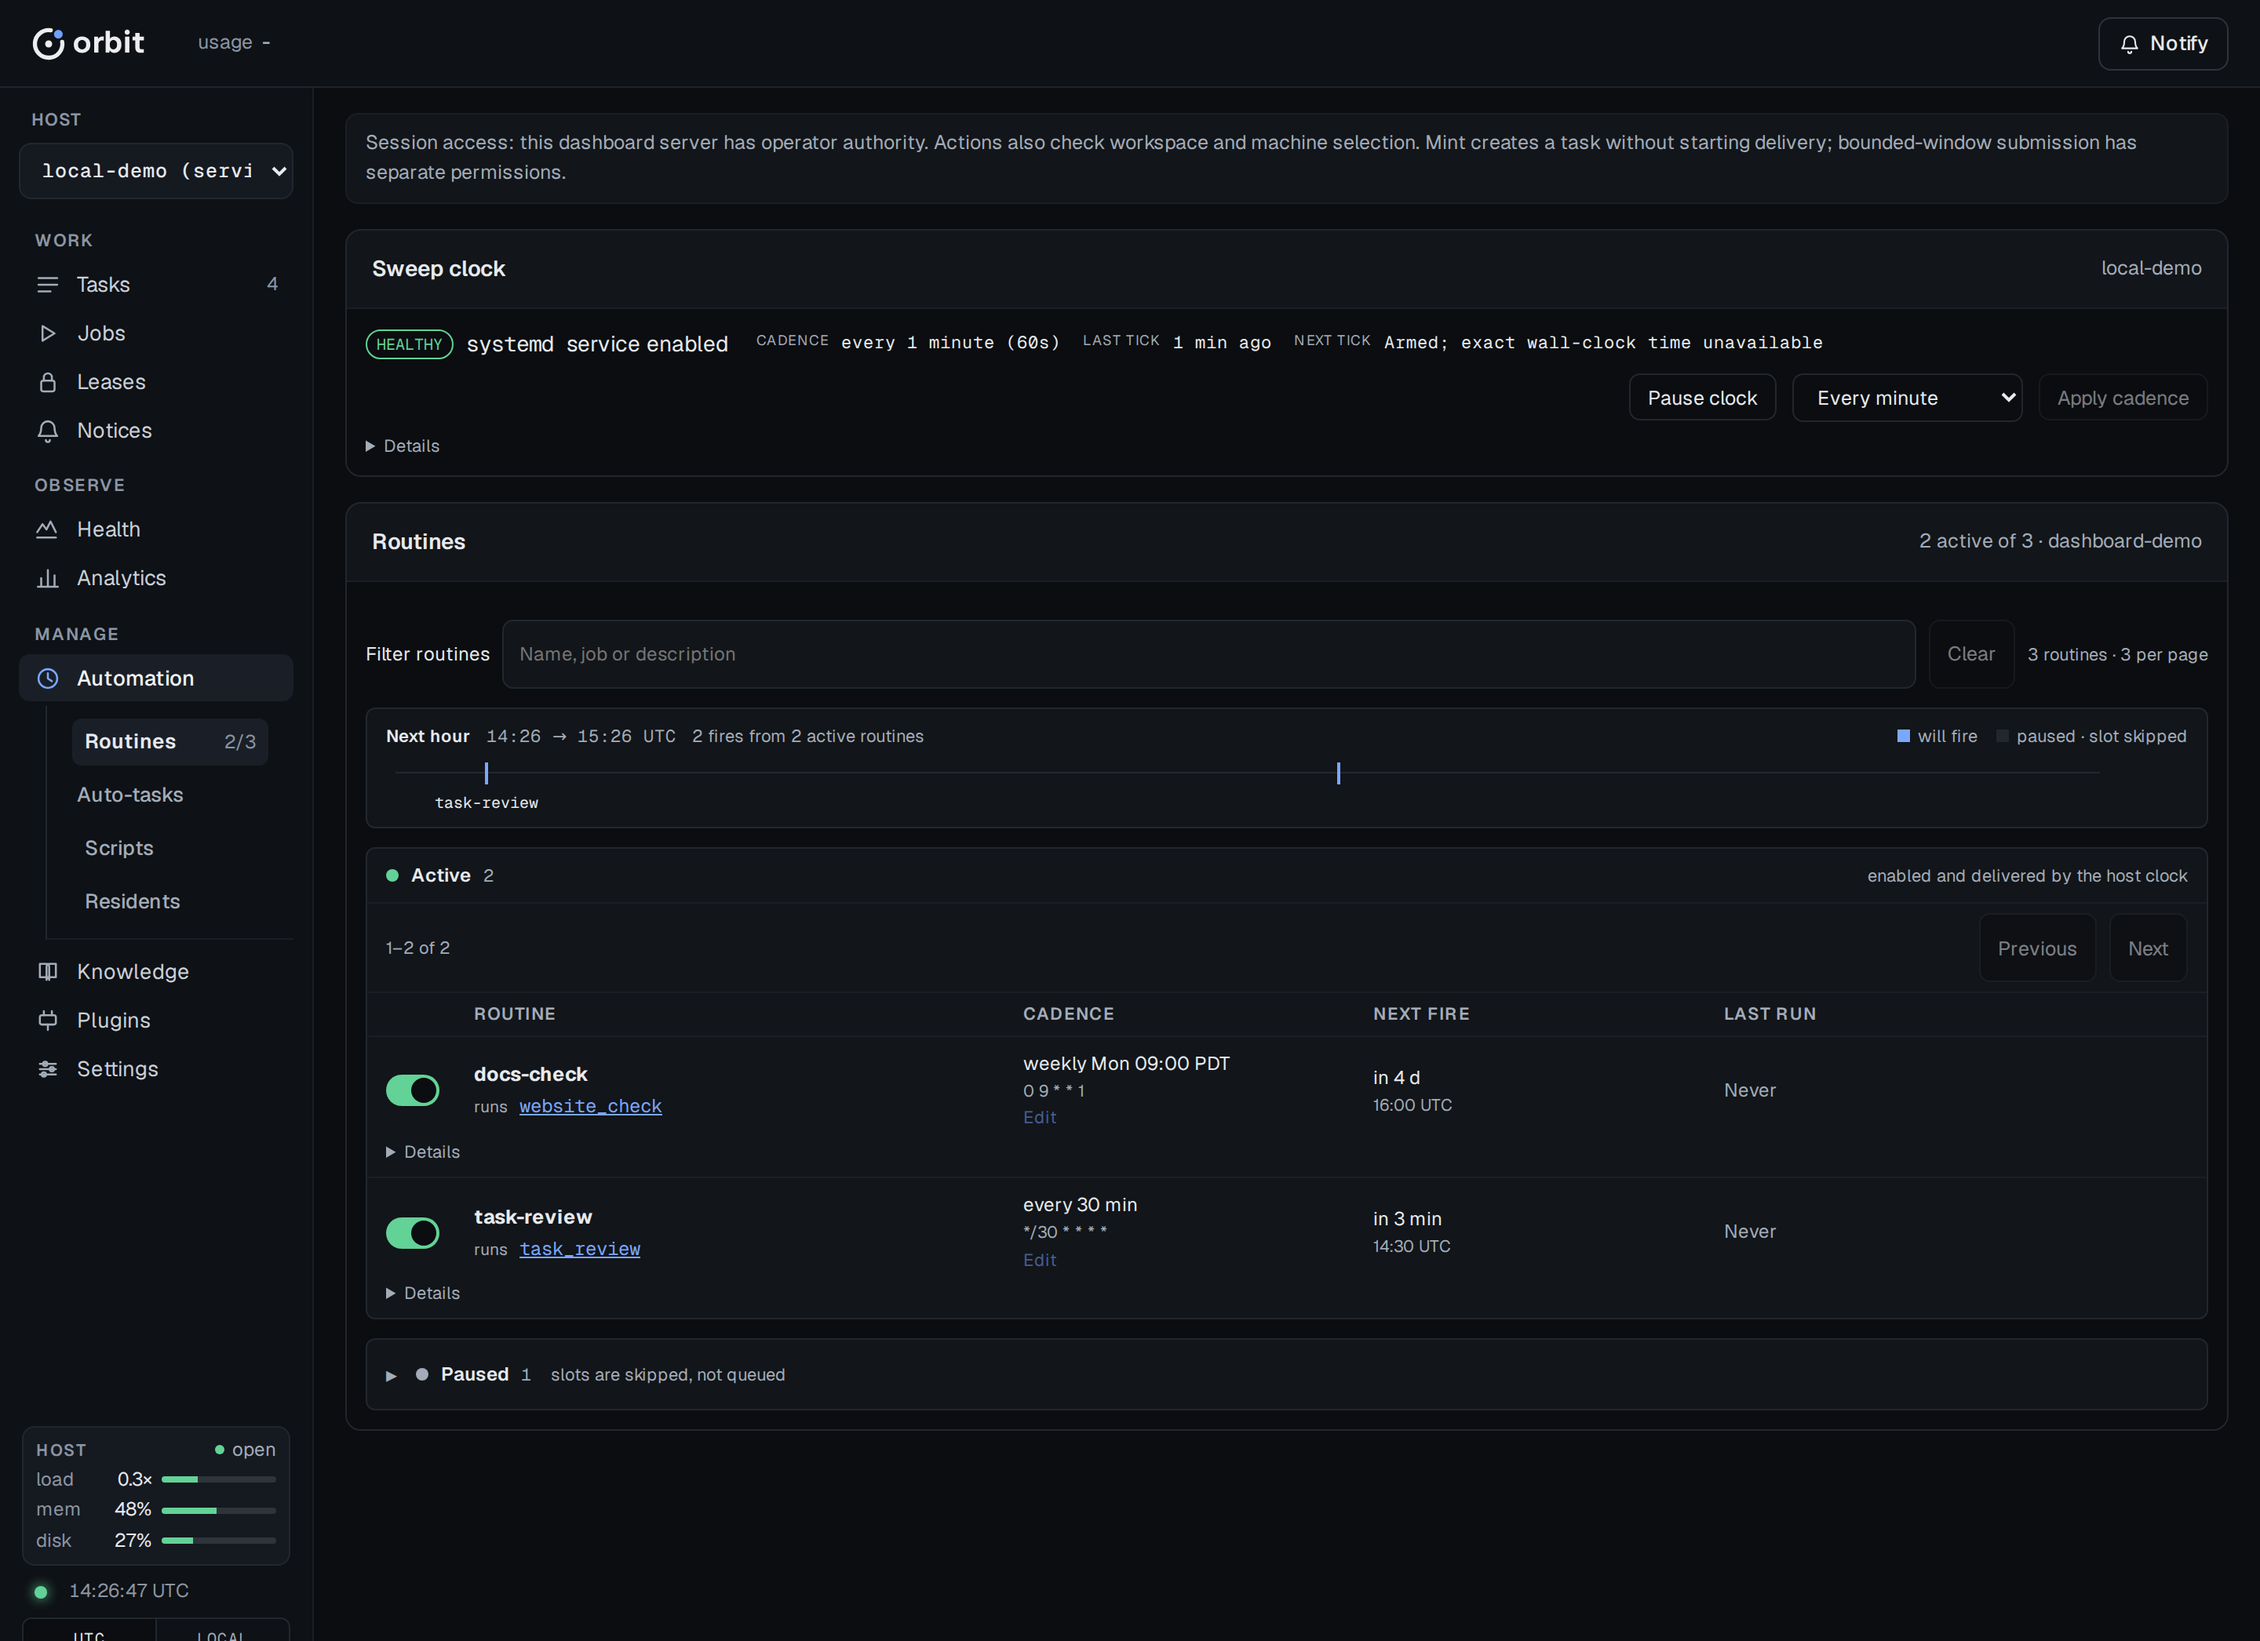
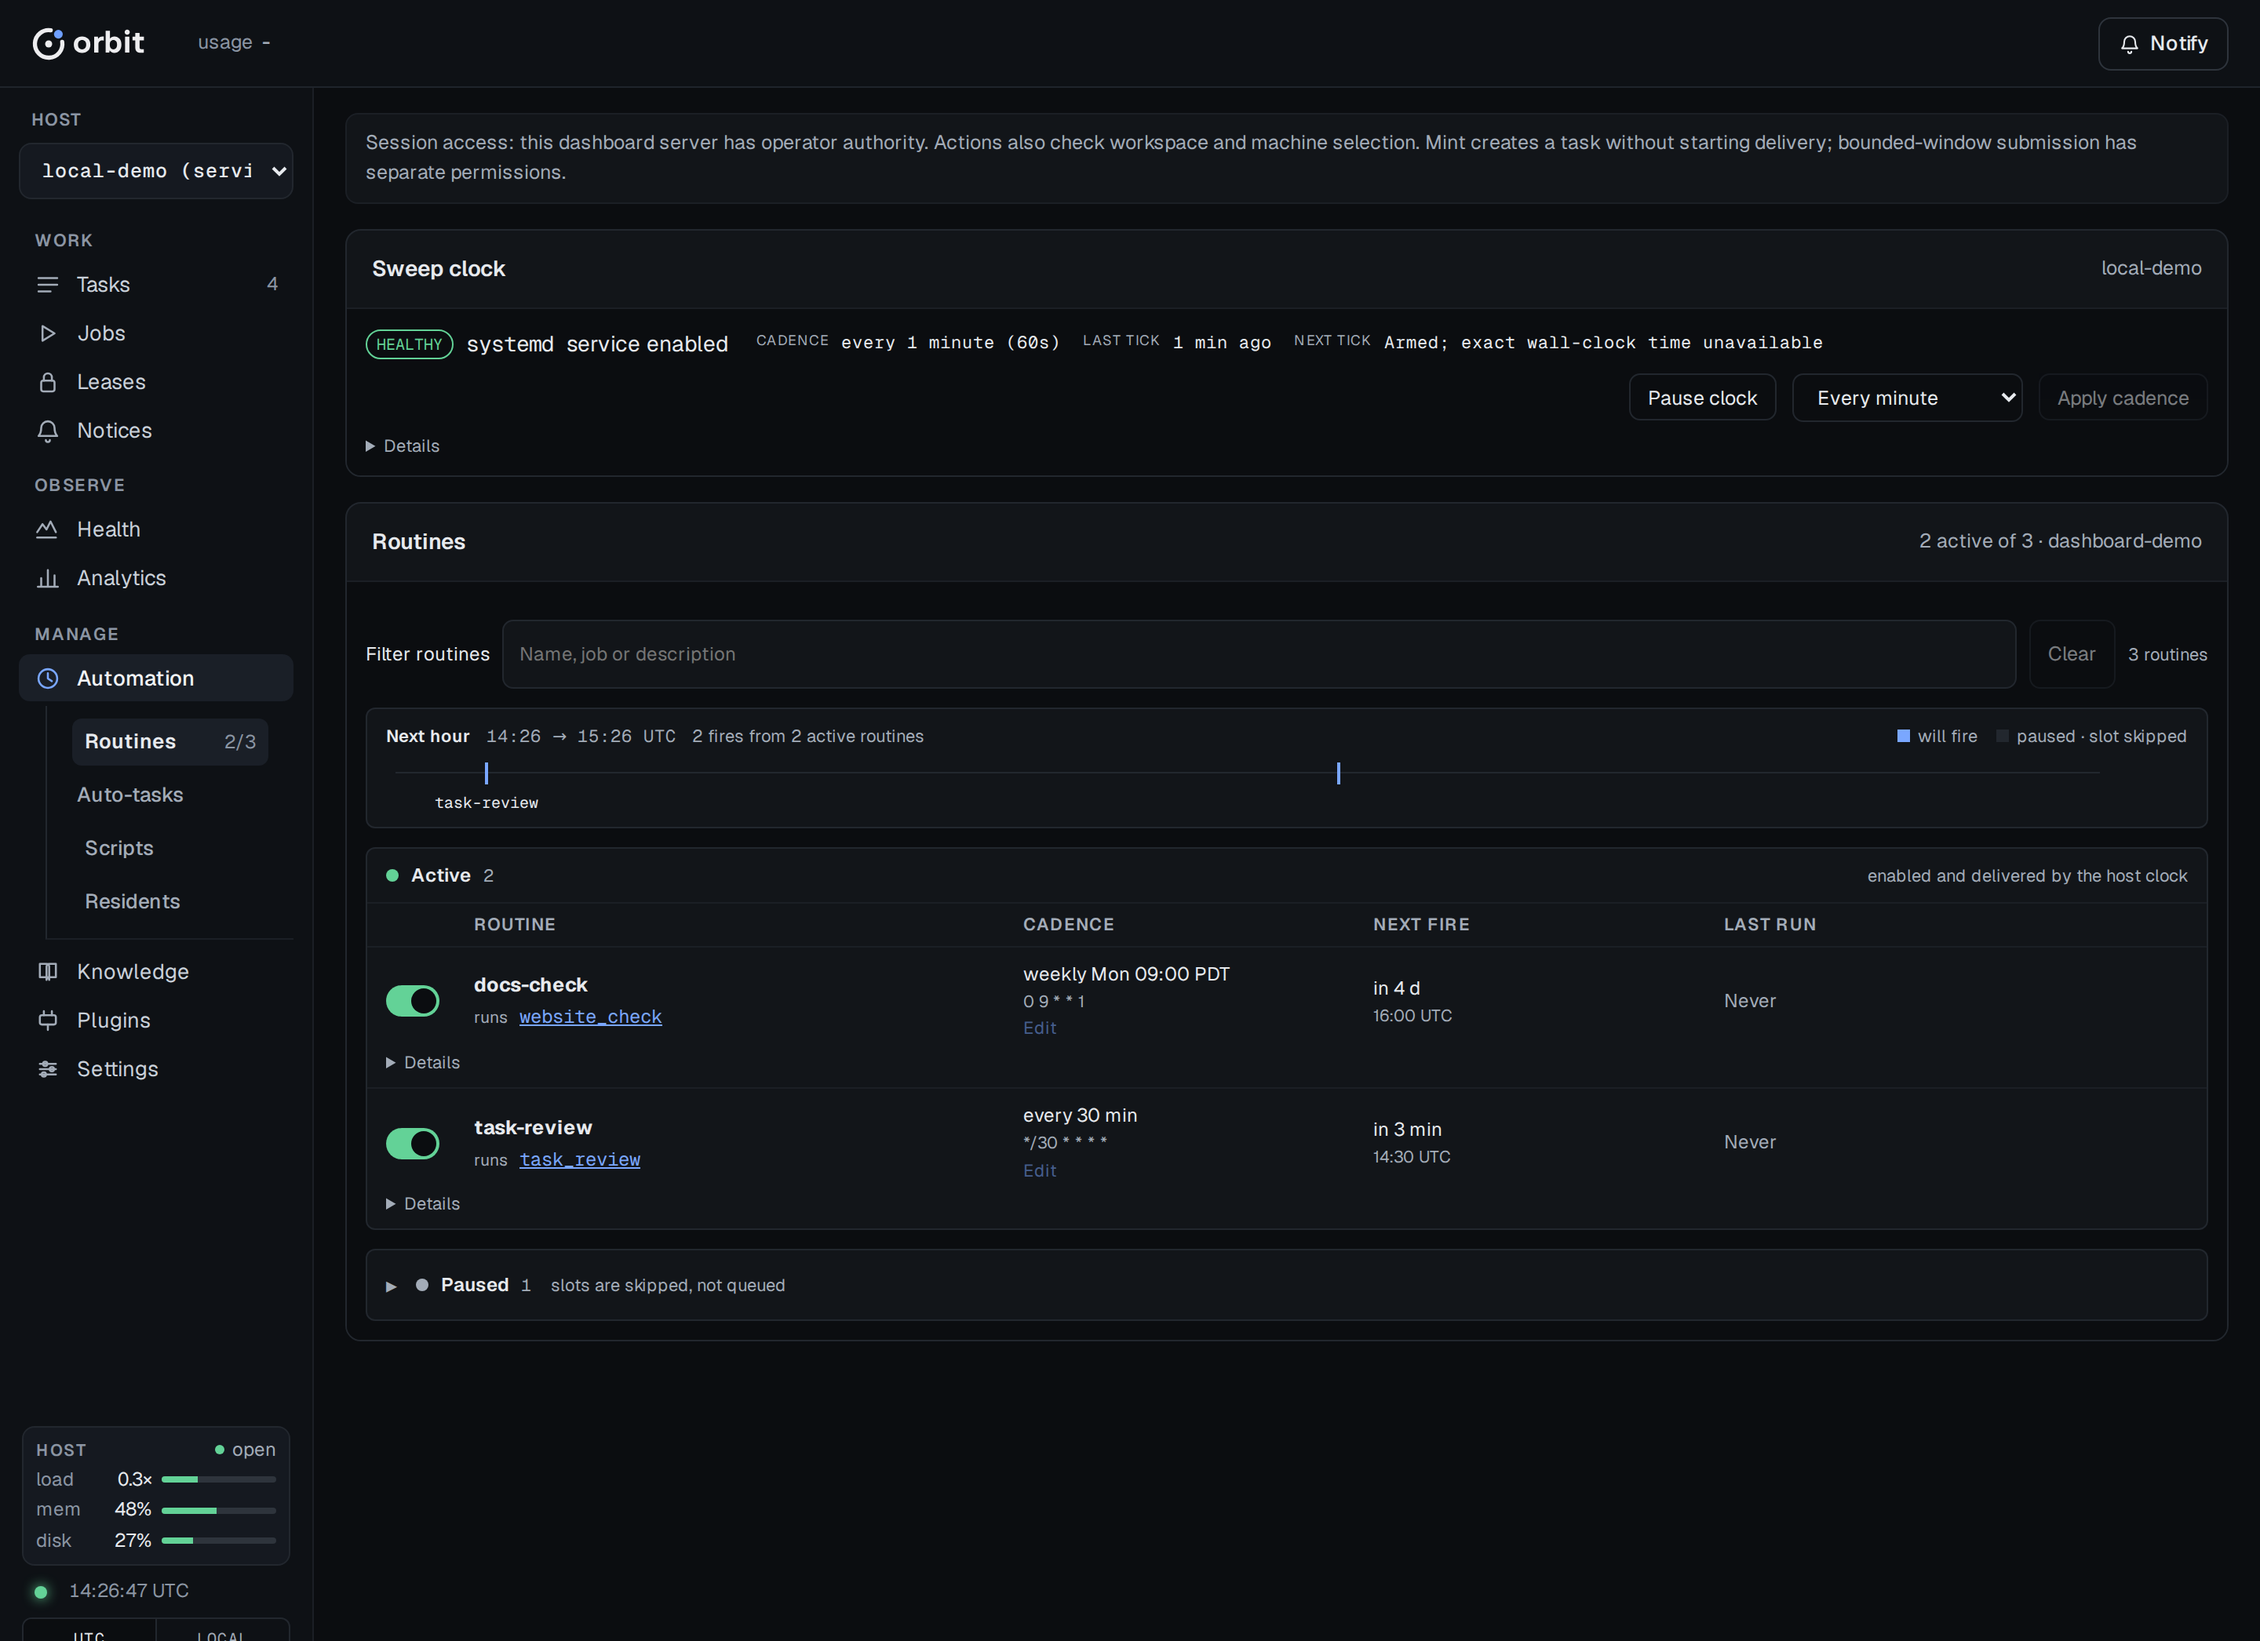
fix: Routines docs still describe the 3-per-page pagination ORB-23384 r… [ORB-23454]
Routines docs still describe the 3-per-page pagination ORB-23384 removed

Fixes: cbb867c71373 ("fix: Routines: drop the 3-per-page pagination and list every routine in… [ORB-23384] (#8772)")
Regression-From: ORB-23384
Regression: contract_drift; escape=no_test; severity=nit

diff --git a/docs/design/routines/2_design.md b/docs/design/routines/2_design.md
@@ -58,20 +58,20 @@ The dashboard Operations view projects the same typed status and control functio
 [ORB-10875]. Routine definitions remain workspace-scoped and show their versioned
 `enabled` value; the host clock remains one independent host-scoped card.
 Automation > Routines filters names, job targets and descriptions locally and
-shows at most three cards per page in each Active or Paused group. Paused
+shows every matching routine in each Active or Paused group. Paused
 routines start collapsed behind a keyboard- and touch-operable disclosure;
 filtering opens it to show matching paused entries. Group counts include the
 total catalogue and summarize blocked, stalled and repeatedly failing routines
-even when their cards are on another page or collapsed. The failure warning
-and next-hour timeline always cover the full catalogue. Filter, page and
+even when their cards are collapsed or filtered out. The failure warning
+and next-hour timeline always cover the full catalogue. Filter and
 disclosure choices survive status refreshes and reset on workspace or host
-changes. Filtering and paging are refused only while a trigger editor is on
-screen: close it first. An open editor whose routine moved to another page or
-group keeps the controls usable, so the operator can page back to it; paging
-or filtering back onto the editor disables them again. If a filter keystroke
+changes. Filtering is refused only while a trigger editor is on
+screen: close it first. An open editor whose routine is filtered out
+keeps the controls usable, so the operator can filter back to it;
+filtering back onto the editor disables them again. If a filter keystroke
 reveals the editor, the query stops there and focus moves to the editor panel;
 remaining query characters do not change the draft. Tab or click into a form
-control to resume editing. Paging and Clear focus an enabled editor control
+control to resume editing. Clear focuses an enabled editor control
 when available, or the panel while a save is pending. A save still in flight
 reports its refusal in the editor now on screen, with the draft kept.
 The host-wide `GET /api/routines` projection uses a process-local single-flight

diff --git a/website/src/content/docs/how-to/dashboard.md b/website/src/content/docs/how-to/dashboard.md
@@ -1462,15 +1462,15 @@ auto-tasks.
 ### Routines
 
 
-![Automation → Routines: the filter toolbar above the Next hour timeline, the Active group paged at three routines per page, and the Paused group collapsed. Active cards show each routine's switch, cadence, next fire, and last run.](../../../assets/dashboard/dashboard-automation.png)
+![Automation → Routines: the filter toolbar above the Next hour timeline, the Active group listing every matching routine, and the Paused group collapsed. Active cards show each routine's switch, cadence, next fire, and last run.](../../../assets/dashboard/dashboard-automation.png)
 
 The toolbar filters routine names, job targets, and descriptions. The Active
-and Paused groups paginate independently, with up to three routines on each
-page. The Paused group starts collapsed; open it to find paused routines.
-Typing a filter opens Paused to show matching routines. The filter and paging
-controls are disabled only while a trigger editor is on screen; close the
-editor first. An open editor whose routine is on another page or filtered out
-does not disable them, so you can page or filter back to it.
+group lists every matching routine. The Paused group starts collapsed; open it
+to find paused routines. Typing a filter opens Paused to show matching
+routines. The filter controls are disabled only while a trigger editor is on
+screen; close the editor first. An open editor whose routine is filtered out
+keeps the controls usable, so you can filter back to it; filtering back onto
+the editor disables them again.
 
 A **Next hour** strip shows each routine due in the next hour: solid if it
 will fire, hollow if it is paused. A paused routine's slot is skipped, not

diff --git a/website/src/content/docs/how-to/recurring-work.md b/website/src/content/docs/how-to/recurring-work.md
@@ -175,7 +175,7 @@ or by setting `enabled` in its YAML. Git ignores `.orbit/`, so the change applie
 to this checkout on this machine. Start with worktree GC. No routine ships work;
 to ship unattended, see [Ship unattended](#ship-unattended).
 
-![Automation → Routines: the filter toolbar above the Next hour timeline, the Active group paged at three routines per page, and the Paused group collapsed. Active cards show each routine's switch, cadence, next fire, and last run.](../../../assets/dashboard/dashboard-automation.png)
+![Automation → Routines: the filter toolbar above the Next hour timeline, the Active group listing every matching routine, and the Paused group collapsed. Active cards show each routine's switch, cadence, next fire, and last run.](../../../assets/dashboard/dashboard-automation.png)
 
 ```bash
 orbit routine list            # enabled, paused, next due, last fire
